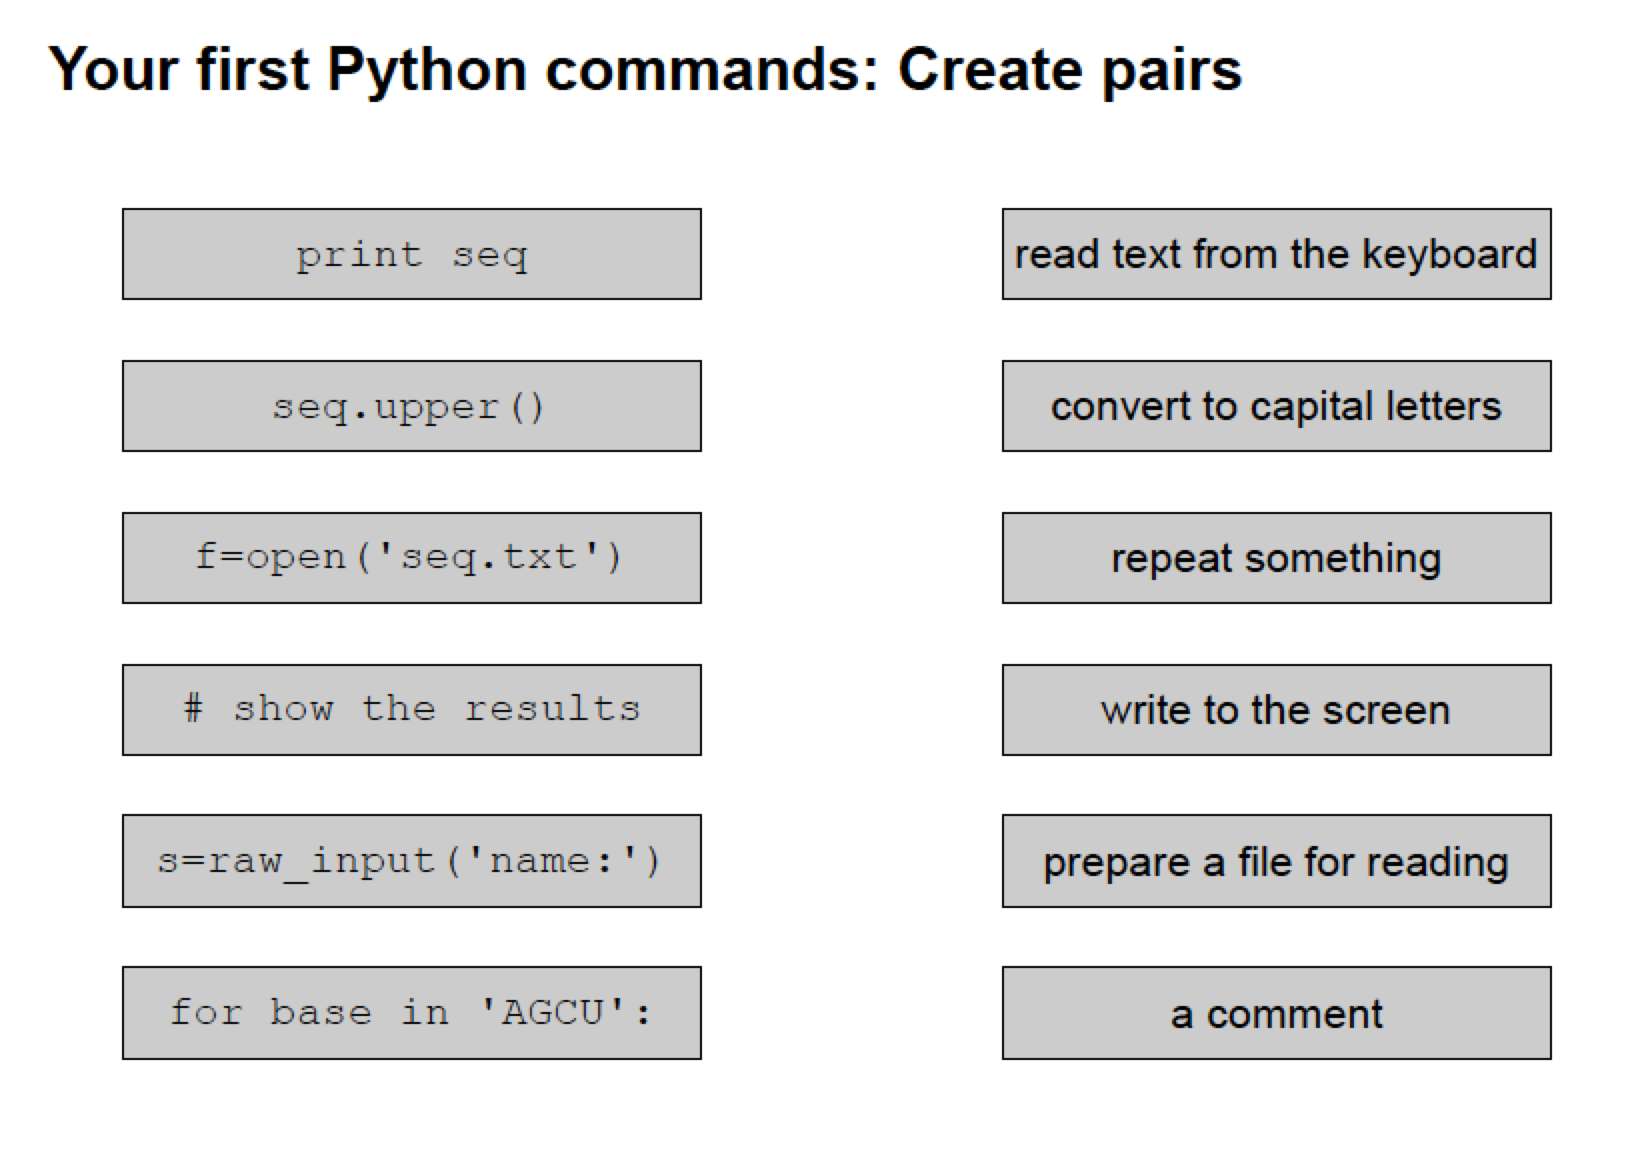
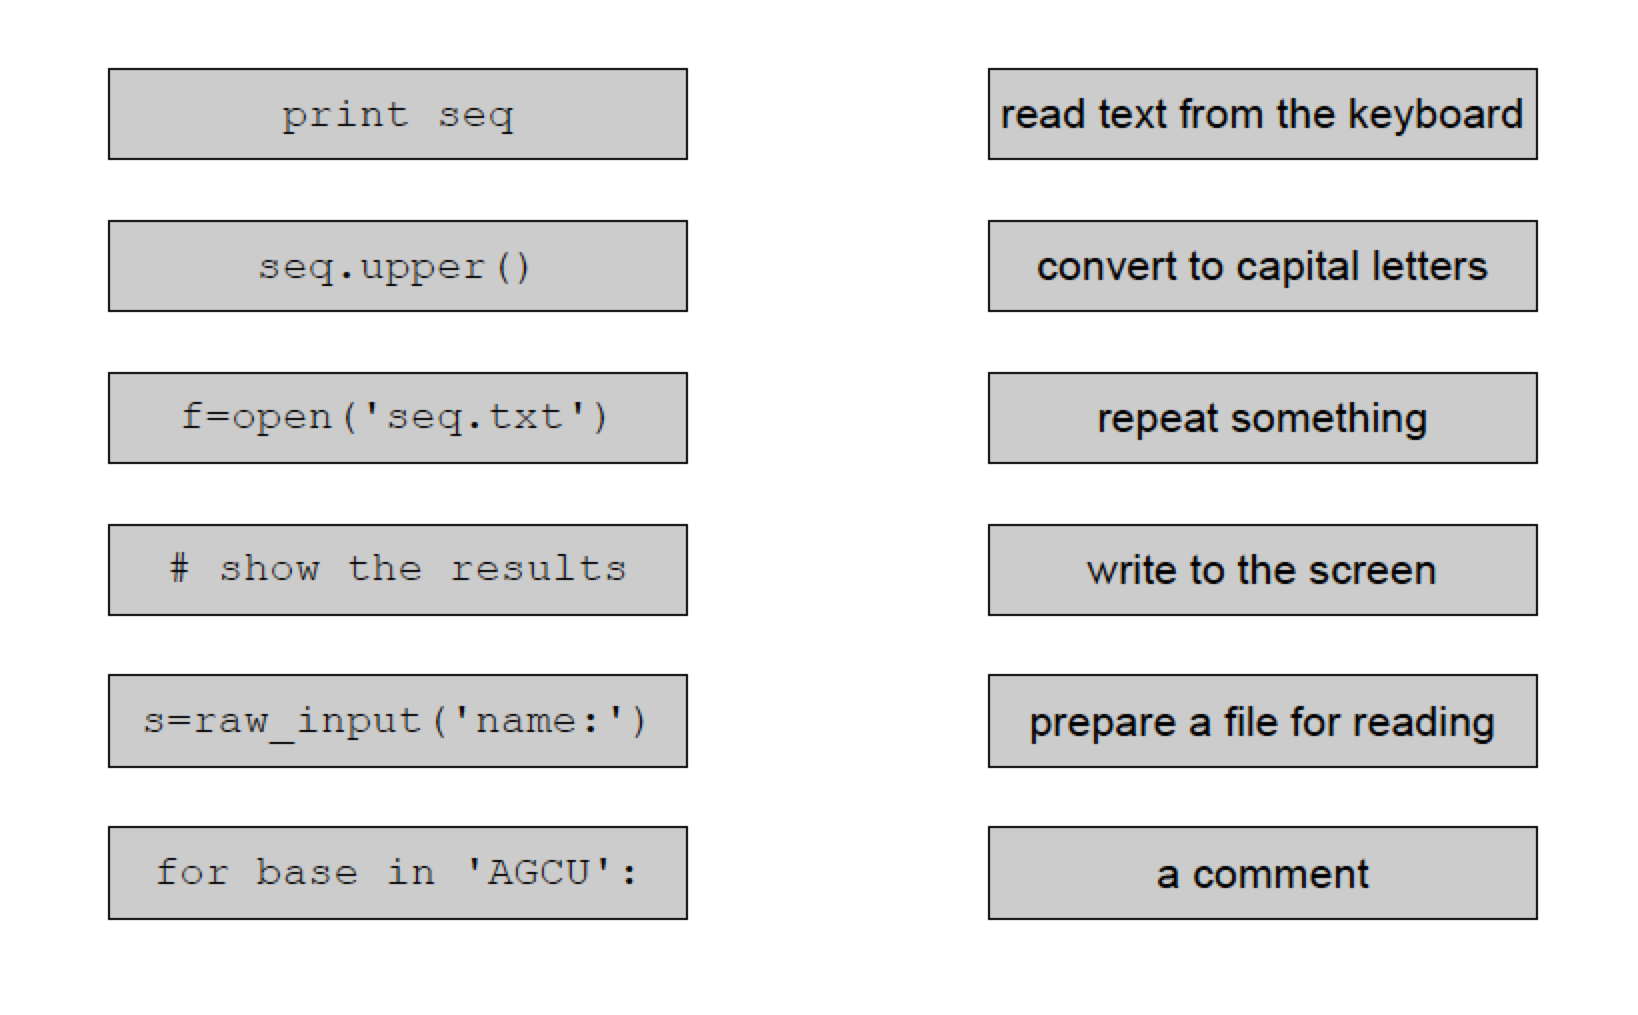
parsing exercises

diff --git a/assets/3_PythonPrograms.md b/assets/3_PythonPrograms.md
@@ -56,17 +56,19 @@ Challenge  #1
 >
 ---
 
-<br>
-<br>
+
 
 
 ---
 Challenge
 
 > Your first Python commands: create pairs
-<img src="img/pp2.png" alt="slot" style="width: 400px;"/>
 >
 ---
+
+<img src="img/pp2.png" alt="slot" style="width: 400px;"/>
+
+
 
 
 ## How programs work
@@ -109,7 +111,7 @@ See See the [Solution to challenge #2](3_PythonPrograms.solutions.md)
 
 
 
-The input file `insuline.txt` can be found [here](data_and_scripts/1-PythonPrograms/d2_programing_data_scripts/insulin.txt) 
+The input file `insuline.txt` can be found [here](data_and_scripts/1-PythonPrograms/d2_programing_data_scripts/insulin.txt)
 
 ```
 Infile = open("insulin.txt")
